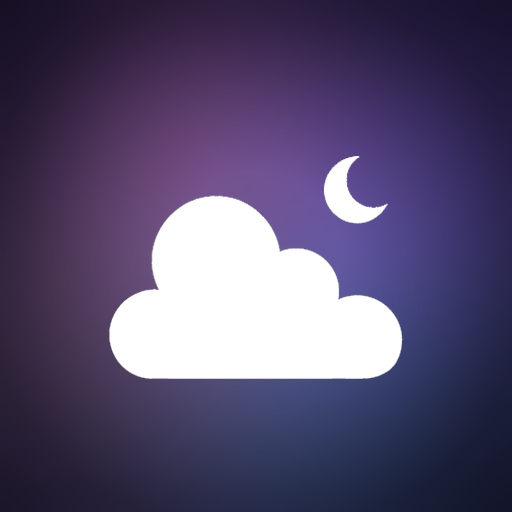
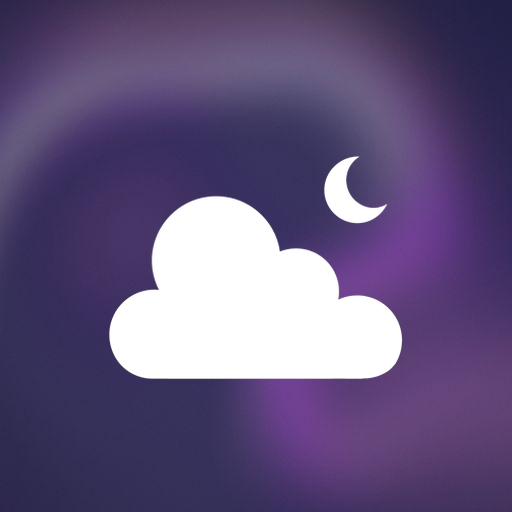
Render Discord GIF with desktop Kawarp

diff --git a/discord-gif.html b/discord-gif.html
@@ -28,12 +28,12 @@
         <div class="discord-gif-copy">
           <span class="section-label">Recurso del servidor</span>
           <h2 id="discord-gif-title">Cloud × Kawarp</h2>
-          <p>El movimiento usa un ciclo matemático cerrado de 4.8 segundos. El último fotograma continúa directamente en el primero, sin un fundido repentino ni un fotograma repetido.</p>
+          <p>El fondo fue renderizado con el mismo motor Kawarp WebGL y los mismos parámetros de Cloud para escritorio. El cierre mezcla suavemente el final con el inicio para que el bucle no produzca un corte visible.</p>
           <dl class="discord-gif-facts">
             <div><dt>Tamaño</dt><dd>512 × 512 px</dd></div>
-            <div><dt>Duración</dt><dd>4.8 segundos</dd></div>
+            <div><dt>Duración</dt><dd>5.6 segundos</dd></div>
             <div><dt>Repetición</dt><dd>Infinita</dd></div>
-            <div><dt>Peso</dt><dd>6.8 MB</dd></div>
+            <div><dt>Peso</dt><dd>8.6 MB</dd></div>
           </dl>
           <div class="actions">
             <a class="button primary" href="./assets/cloud-kawarp-discord.gif" download="cloud-kawarp-discord.gif">Descargar GIF</a>
